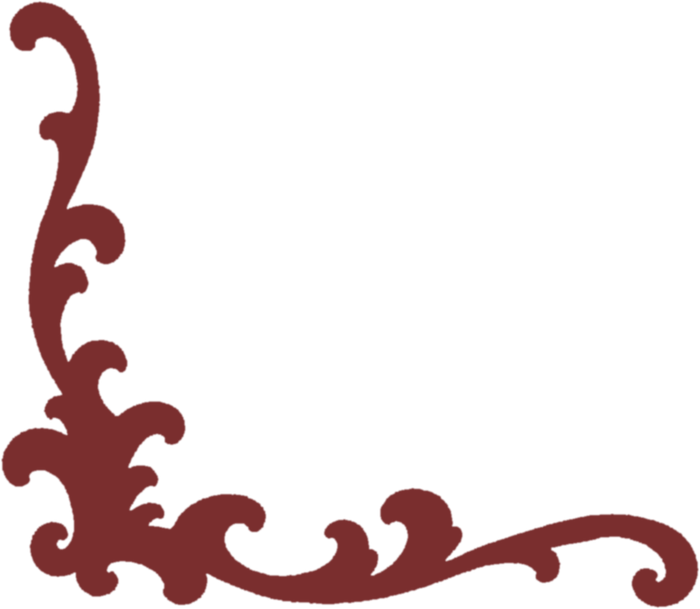
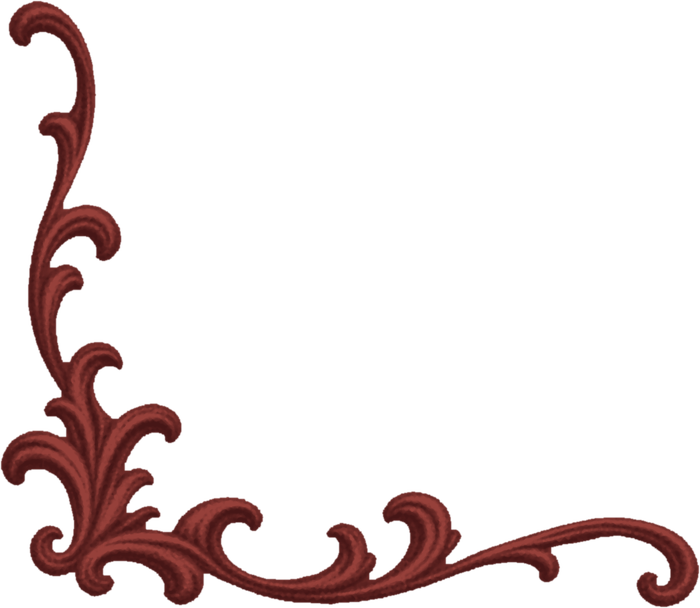
Thinner flourishes with carved detail
Claude-Session: https://claude.ai/code/session_01Tfgmd9Pi4hFCE6iu8WpJuT

Changed region(s): [[0.0, 0.0, 1.0, 1.0]]

diff --git a/site/index.html b/site/index.html
@@ -350,7 +350,7 @@ body{margin:0}
   </div>
 </section>
 
-<footer class="sig" aria-label="Sunday Office"><img class="orn l" src="w/orn-l.png" alt="" aria-hidden="true" draggable="false"><img class="orn r" src="w/orn-r.png" alt="" aria-hidden="true" draggable="false"><span>Sunday Office</span></footer>
+<footer class="sig" aria-label="Sunday Office"><img class="orn l" src="w/orn-l.png?v=2" alt="" aria-hidden="true" draggable="false"><img class="orn r" src="w/orn-r.png?v=2" alt="" aria-hidden="true" draggable="false"><span>Sunday Office</span></footer>
 </div>
 
 <div class="gal" id="gal" role="dialog" aria-modal="true" aria-label="Work" hidden>
